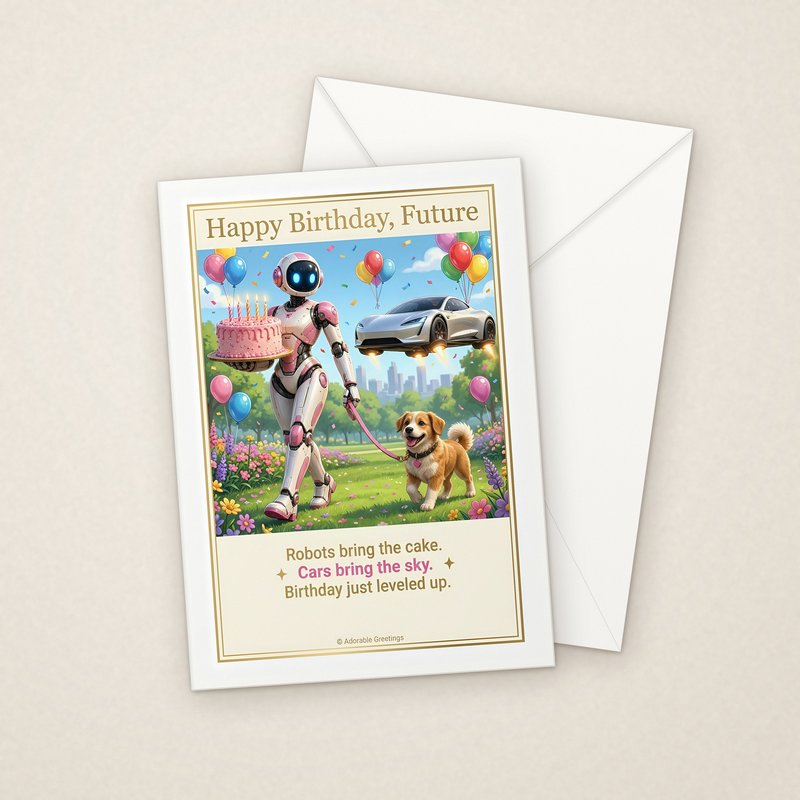
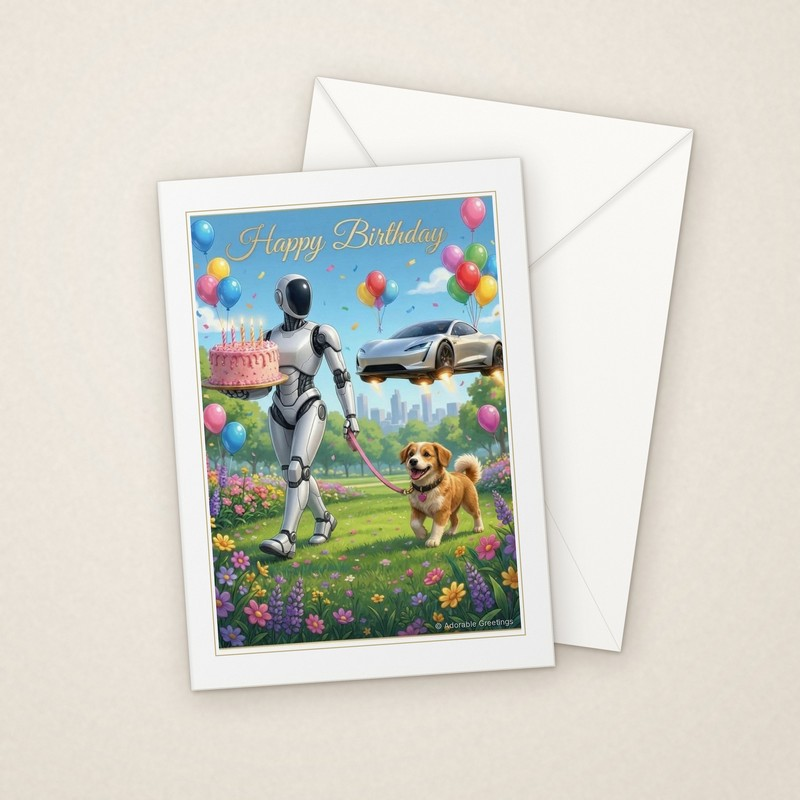
The New Tradition: cleaned greeting fronts (Merry Christmas / Happy Holidays / Season's Greetings / Happy Birthday, © Adorable Greetings) replace RXM-11, 16, 22-28 and NTBD-11 singles and Set-of-28 image; old slogans moved into card description text; new NTBirthday Set-of-11 image; prices and Stripe

Changed region(s): [[0.2188, 0.2188, 0.6562, 0.8438]]

diff --git a/cards/index.html b/cards/index.html
@@ -99,6 +99,7 @@
   .card img{aspect-ratio:1/1; object-fit:cover; width:100%; background:#F3EFE6;}
   .card figcaption{padding:9px 10px 11px; font-family:'Poppins',sans-serif; font-weight:600; font-size:.86rem; text-align:center; line-height:1.3;}
   .card figcaption span{display:block; font-family:'IBM Plex Mono',monospace; font-weight:500; font-size:.64rem; color:var(--slate); margin-top:3px;}
+  .card figcaption .slogan{font-family:'Poppins',sans-serif; font-style:italic; font-weight:400; font-size:.72rem; color:var(--slate); margin-top:4px;}
 
   .cta{background:var(--navy); color:var(--cream); text-align:center; padding:48px 0; margin-top:56px;}
   .cta h2{color:var(--cream);}
@@ -180,19 +181,19 @@
     </div>
     <div class="gallery" style="margin-top:22px;">
       <figure class="card" id="robotxmas-21-upgrade-your-holidays-gift-car"><a href="/images/cards/new/robots-xmas/RobotXmas-21-upgrade-your-holidays-gift-car.jpg" target="_blank" rel="noopener"><img src="/images/cards/new/robots-xmas/RobotXmas-21-upgrade-your-holidays-gift-car.jpg" alt="Upgrade Your Holidays robot Christmas greeting card mockup with envelope: a robot walks the golden retriever while a flying white car carries the presents" width="800" height="800" loading="lazy" decoding="async"></a><figcaption>Upgrade Your Holidays<span>Gift Car Upgrade Your Holidays</span></figcaption></figure>
-      <figure class="card" id="robotxmas-22-done-with-the-old-living-room"><a href="/images/cards/new/robots-xmas/RobotXmas-22-done-with-the-old-living-room.jpg" target="_blank" rel="noopener"><img src="/images/cards/new/robots-xmas/RobotXmas-22-done-with-the-old-living-room.jpg" alt="Done With the Old robot Christmas greeting card mockup with envelope: a robot clears out the old with a corgi as a flying car waits by the Christmas tree" width="800" height="800" loading="lazy" decoding="async"></a><figcaption>Done With the Old<span>Living Room Done With the Old</span></figcaption></figure>
-      <figure class="card" id="robotxmas-23-rocket-ride-flying-car"><a href="/images/cards/new/robots-xmas/RobotXmas-23-rocket-ride-flying-car.jpg" target="_blank" rel="noopener"><img src="/images/cards/new/robots-xmas/RobotXmas-23-rocket-ride-flying-car.jpg" alt="Rocket Ride robot Christmas greeting card mockup with envelope: a flying white car blasts over a holiday village as a robot and a golden retriever wave" width="800" height="800" loading="lazy" decoding="async"></a><figcaption>Rocket Ride<span>Flying Car Rocket Ride</span></figcaption></figure>
-      <figure class="card" id="robotxmas-24-the-moment-split-scene"><a href="/images/cards/new/robots-xmas/RobotXmas-24-the-moment-split-scene.jpg" target="_blank" rel="noopener"><img src="/images/cards/new/robots-xmas/RobotXmas-24-the-moment-split-scene.jpg" alt="The Moment robot Christmas greeting card mockup with envelope: from walking the dog in the snow to flying the car over a Christmas town" width="800" height="800" loading="lazy" decoding="async"></a><figcaption>The Moment<span>Split Scene The Moment</span></figcaption></figure>
-      <figure class="card" id="robotxmas-25-everyday-future-snowy-walk"><a href="/images/cards/new/robots-xmas/RobotXmas-25-everyday-future-snowy-walk.jpg" target="_blank" rel="noopener"><img src="/images/cards/new/robots-xmas/RobotXmas-25-everyday-future-snowy-walk.jpg" alt="Everyday Future robot Christmas greeting card mockup with envelope: a robot in a scarf walks a doodle in a Santa hat down a snowy street" width="800" height="800" loading="lazy" decoding="async"></a><figcaption>Everyday Future<span>Snowy Walk Everyday Future</span></figcaption></figure>
-      <figure class="card" id="robotxmas-26-neighborhood-upgrade-snowy-street"><a href="/images/cards/new/robots-xmas/RobotXmas-26-neighborhood-upgrade-snowy-street.jpg" target="_blank" rel="noopener"><img src="/images/cards/new/robots-xmas/RobotXmas-26-neighborhood-upgrade-snowy-street.jpg" alt="Neighborhood Upgrade robot Christmas greeting card mockup with envelope: a robot walks a terrier past wreathed houses as a flying car arrives" width="800" height="800" loading="lazy" decoding="async"></a><figcaption>Neighborhood Upgrade<span>Snowy Street Neighborhood Upgrade</span></figcaption></figure>
-      <figure class="card" id="robotxmas-27-kickflip-era-holiday-skateboard"><a href="/images/cards/new/robots-xmas/RobotXmas-27-kickflip-era-holiday-skateboard.jpg" target="_blank" rel="noopener"><img src="/images/cards/new/robots-xmas/RobotXmas-27-kickflip-era-holiday-skateboard.jpg" alt="Kickflip Era robot Christmas greeting card mockup with envelope: a light-up skateboard, a flying car and a robot with two pups under holiday fireworks" width="800" height="800" loading="lazy" decoding="async"></a><figcaption>Kickflip Era<span>Holiday Skateboard Kickflip Era</span></figcaption></figure>
-      <figure class="card" id="robotxmas-28-new-normal-robot-chores"><a href="/images/cards/new/robots-xmas/RobotXmas-28-new-normal-robot-chores.jpg" target="_blank" rel="noopener"><img src="/images/cards/new/robots-xmas/RobotXmas-28-new-normal-robot-chores.jpg" alt="New Normal robot Christmas greeting card mockup with envelope: a robot hangs the wreath while a flying car lifts off from a snowy house" width="800" height="800" loading="lazy" decoding="async"></a><figcaption>New Normal<span>Robot Chores New Normal</span></figcaption></figure>
-      <figure class="card" id="robotxmas-11-christmas-2-0-holo-tree"><a href="/images/cards/new/robots-xmas/RobotXmas-11-christmas-2-0-holo-tree.jpg" target="_blank" rel="noopener"><img src="/images/cards/new/robots-xmas/RobotXmas-11-christmas-2-0-holo-tree.jpg" alt="Christmas 2.0 robot Christmas greeting card mockup with envelope: a robot walks the dog while a flying car carries the presents" width="800" height="800" loading="lazy" decoding="async"></a><figcaption>Christmas 2.0<span>Holographic Tree Christmas 2.0</span></figcaption></figure>
+      <figure class="card" id="robotxmas-22-done-with-the-old-living-room"><a href="/images/cards/new/robots-xmas/RobotXmas-22-done-with-the-old-living-room.jpg" target="_blank" rel="noopener"><img src="/images/cards/new/robots-xmas/RobotXmas-22-done-with-the-old-living-room.jpg" alt="Done With the Old robot Christmas greeting card mockup with envelope: a robot clears out the old with a corgi as a flying car waits by the Christmas tree" width="800" height="800" loading="lazy" decoding="async"></a><figcaption>Done With the Old<span>Living Room Done With the Old</span><span class="slogan">Same old cards? Not this year. Robots and flying cars just took over.</span></figcaption></figure>
+      <figure class="card" id="robotxmas-23-rocket-ride-flying-car"><a href="/images/cards/new/robots-xmas/RobotXmas-23-rocket-ride-flying-car.jpg" target="_blank" rel="noopener"><img src="/images/cards/new/robots-xmas/RobotXmas-23-rocket-ride-flying-car.jpg" alt="Rocket Ride robot Christmas greeting card mockup with envelope: a flying white car blasts over a holiday village as a robot and a golden retriever wave" width="800" height="800" loading="lazy" decoding="async"></a><figcaption>Rocket Ride<span>Flying Car Rocket Ride</span><span class="slogan">Flying cars are real. 0-60 in under a second.</span></figcaption></figure>
+      <figure class="card" id="robotxmas-24-the-moment-split-scene"><a href="/images/cards/new/robots-xmas/RobotXmas-24-the-moment-split-scene.jpg" target="_blank" rel="noopener"><img src="/images/cards/new/robots-xmas/RobotXmas-24-the-moment-split-scene.jpg" alt="The Moment robot Christmas greeting card mockup with envelope: from walking the dog in the snow to flying the car over a Christmas town" width="800" height="800" loading="lazy" decoding="async"></a><figcaption>The Moment<span>Split Scene The Moment</span><span class="slogan">From walking the dog to flying the car.</span></figcaption></figure>
+      <figure class="card" id="robotxmas-25-everyday-future-snowy-walk"><a href="/images/cards/new/robots-xmas/RobotXmas-25-everyday-future-snowy-walk.jpg" target="_blank" rel="noopener"><img src="/images/cards/new/robots-xmas/RobotXmas-25-everyday-future-snowy-walk.jpg" alt="Everyday Future robot Christmas greeting card mockup with envelope: a robot in a scarf walks a doodle in a Santa hat down a snowy street" width="800" height="800" loading="lazy" decoding="async"></a><figcaption>Everyday Future<span>Snowy Walk Everyday Future</span><span class="slogan">Robots walk the dog. Cars fly. New normal.</span></figcaption></figure>
+      <figure class="card" id="robotxmas-26-neighborhood-upgrade-snowy-street"><a href="/images/cards/new/robots-xmas/RobotXmas-26-neighborhood-upgrade-snowy-street.jpg" target="_blank" rel="noopener"><img src="/images/cards/new/robots-xmas/RobotXmas-26-neighborhood-upgrade-snowy-street.jpg" alt="Neighborhood Upgrade robot Christmas greeting card mockup with envelope: a robot walks a terrier past wreathed houses as a flying car arrives" width="800" height="800" loading="lazy" decoding="async"></a><figcaption>Neighborhood Upgrade<span>Snowy Street Neighborhood Upgrade</span><span class="slogan">Your next dog walker and your next ride both just arrived.</span></figcaption></figure>
+      <figure class="card" id="robotxmas-27-kickflip-era-holiday-skateboard"><a href="/images/cards/new/robots-xmas/RobotXmas-27-kickflip-era-holiday-skateboard.jpg" target="_blank" rel="noopener"><img src="/images/cards/new/robots-xmas/RobotXmas-27-kickflip-era-holiday-skateboard.jpg" alt="Kickflip Era robot Christmas greeting card mockup with envelope: a light-up skateboard, a flying car and a robot with two pups under holiday fireworks" width="800" height="800" loading="lazy" decoding="async"></a><figcaption>Kickflip Era<span>Holiday Skateboard Kickflip Era</span><span class="slogan">Cars that fly. Thrusters that land. The rules just got rewritten.</span></figcaption></figure>
+      <figure class="card" id="robotxmas-28-new-normal-robot-chores"><a href="/images/cards/new/robots-xmas/RobotXmas-28-new-normal-robot-chores.jpg" target="_blank" rel="noopener"><img src="/images/cards/new/robots-xmas/RobotXmas-28-new-normal-robot-chores.jpg" alt="New Normal robot Christmas greeting card mockup with envelope: a robot hangs the wreath while a flying car lifts off from a snowy house" width="800" height="800" loading="lazy" decoding="async"></a><figcaption>New Normal<span>Robot Chores New Normal</span><span class="slogan">Robots do the chores. Cars leave the ground. Welcome to now.</span></figcaption></figure>
+      <figure class="card" id="robotxmas-11-christmas-2-0-holo-tree"><a href="/images/cards/new/robots-xmas/RobotXmas-11-christmas-2-0-holo-tree.jpg" target="_blank" rel="noopener"><img src="/images/cards/new/robots-xmas/RobotXmas-11-christmas-2-0-holo-tree.jpg" alt="Christmas 2.0 robot Christmas greeting card mockup with envelope: a robot walks the dog while a flying car carries the presents" width="800" height="800" loading="lazy" decoding="async"></a><figcaption>Christmas 2.0<span>Holographic Tree Christmas 2.0</span><span class="slogan">Robots walk the dog. Cars fly the presents. A new kind of Christmas.</span></figcaption></figure>
       <figure class="card" id="robotxmas-12-dog-walker-2-0-snowy-street"><a href="/images/cards/new/robots-xmas/RobotXmas-12-dog-walker-2-0-snowy-street.jpg" target="_blank" rel="noopener"><img src="/images/cards/new/robots-xmas/RobotXmas-12-dog-walker-2-0-snowy-street.jpg" alt="Snowy Street Dog Walker 2.0 robot Christmas greeting card mockup with envelope" width="800" height="800" loading="lazy" decoding="async"></a><figcaption>Dog Walker 2.0<span>Snowy Street Dog Walker 2.0</span></figcaption></figure>
       <figure class="card" id="robotxmas-13-gifts-by-air-drone-pods"><a href="/images/cards/new/robots-xmas/RobotXmas-13-gifts-by-air-drone-pods.jpg" target="_blank" rel="noopener"><img src="/images/cards/new/robots-xmas/RobotXmas-13-gifts-by-air-drone-pods.jpg" alt="Drone Pods Gifts by Air robot Christmas greeting card mockup with envelope" width="800" height="800" loading="lazy" decoding="async"></a><figcaption>Gifts by Air<span>Drone Pods Gifts by Air</span></figcaption></figure>
       <figure class="card" id="robotxmas-14-tree-trimmer-drone-swarm"><a href="/images/cards/new/robots-xmas/RobotXmas-14-tree-trimmer-drone-swarm.jpg" target="_blank" rel="noopener"><img src="/images/cards/new/robots-xmas/RobotXmas-14-tree-trimmer-drone-swarm.jpg" alt="Drone Swarm Tree Trimmer robot Christmas greeting card mockup with envelope" width="800" height="800" loading="lazy" decoding="async"></a><figcaption>Tree Trimmer<span>Drone Swarm Tree Trimmer</span></figcaption></figure>
       <figure class="card" id="robotxmas-15-holiday-crew-glowing-reindeer"><a href="/images/cards/new/robots-xmas/RobotXmas-15-holiday-crew-glowing-reindeer.jpg" target="_blank" rel="noopener"><img src="/images/cards/new/robots-xmas/RobotXmas-15-holiday-crew-glowing-reindeer.jpg" alt="Glowing Reindeer Holiday Crew robot Christmas greeting card mockup with envelope" width="800" height="800" loading="lazy" decoding="async"></a><figcaption>Holiday Crew<span>Glowing Reindeer Holiday Crew</span></figcaption></figure>
-      <figure class="card" id="robotxmas-16-skip-the-papers-wrapping-line"><a href="/images/cards/new/robots-xmas/RobotXmas-16-skip-the-papers-wrapping-line.jpg" target="_blank" rel="noopener"><img src="/images/cards/new/robots-xmas/RobotXmas-16-skip-the-papers-wrapping-line.jpg" alt="Skip the Papers robot Christmas greeting card mockup with envelope: a robot and a golden retriever on a snowy holiday walk" width="800" height="800" loading="lazy" decoding="async"></a><figcaption>Skip the Papers<span>Wrapping Line Skip the Papers</span></figcaption></figure>
+      <figure class="card" id="robotxmas-16-skip-the-papers-wrapping-line"><a href="/images/cards/new/robots-xmas/RobotXmas-16-skip-the-papers-wrapping-line.jpg" target="_blank" rel="noopener"><img src="/images/cards/new/robots-xmas/RobotXmas-16-skip-the-papers-wrapping-line.jpg" alt="Skip the Papers robot Christmas greeting card mockup with envelope: a robot and a golden retriever on a snowy holiday walk" width="800" height="800" loading="lazy" decoding="async"></a><figcaption>Skip the Papers<span>Wrapping Line Skip the Papers</span><span class="slogan">People are tired of the same old cards. This year the robot delivers the moment.</span></figcaption></figure>
       <figure class="card" id="robotxmas-17-the-new-tradition-aurora-skyline"><a href="/images/cards/new/robots-xmas/RobotXmas-17-the-new-tradition-aurora-skyline.jpg" target="_blank" rel="noopener"><img src="/images/cards/new/robots-xmas/RobotXmas-17-the-new-tradition-aurora-skyline.jpg" alt="The New Tradition robot Christmas greeting card mockup with envelope: a robot trims the tree while Santa flies by in a white electric car" width="800" height="800" loading="lazy" decoding="async"></a><figcaption>The New Tradition<span>Aurora Skyline The New Tradition</span></figcaption></figure>
       <figure class="card" id="robotxmas-18-snow-on-demand-weather-drone"><a href="/images/cards/new/robots-xmas/RobotXmas-18-snow-on-demand-weather-drone.jpg" target="_blank" rel="noopener"><img src="/images/cards/new/robots-xmas/RobotXmas-18-snow-on-demand-weather-drone.jpg" alt="Weather Drone Snow on Demand robot Christmas greeting card mockup with envelope" width="800" height="800" loading="lazy" decoding="async"></a><figcaption>Snow on Demand<span>Weather Drone Snow on Demand</span></figcaption></figure>
       <figure class="card" id="robotxmas-19-sleigh-ride-2-0-hover-sleigh"><a href="/images/cards/new/robots-xmas/RobotXmas-19-sleigh-ride-2-0-hover-sleigh.jpg" target="_blank" rel="noopener"><img src="/images/cards/new/robots-xmas/RobotXmas-19-sleigh-ride-2-0-hover-sleigh.jpg" alt="Hover Sleigh Ride 2.0 robot Christmas greeting card mockup with envelope" width="800" height="800" loading="lazy" decoding="async"></a><figcaption>Sleigh Ride 2.0<span>Hover Sleigh Ride 2.0</span></figcaption></figure>
@@ -237,7 +238,7 @@
     <p class="tagline" style="margin:-6px 0 10px; font-style:italic; font-size:1.05rem;">Birthday parties of the future</p>
     <p class="sub">Bright, futuristic trading-card designs: a friendly humanoid home robot and its puppy crew throw the birthday party of tomorrow, with a hologram cake, candles lit by drone, a hoverboard party, a robot DJ, a confetti drone show, a birthday in orbit, a wish machine, a pod full of party puppies and a rooftop party in a sky city. &ldquo;Make a Wish&rdquo;, &ldquo;Drop the Beat&rdquo;, &ldquo;Birthday in Orbit&rdquo;, &ldquo;Party Pod&rdquo;, &ldquo;Party in the Sky&rdquo; and more. Blank inside.</p>
     <div class="feature" id="nt-birthday-set">
-      <a href="/images/cards/new/nt-birthday/NTBirthday-Set-of-10.jpg" target="_blank" rel="noopener"><img src="/images/cards/new/nt-birthday/NTBirthday-Set-of-10.jpg" alt="All 10 The New Tradition robot birthday greeting card designs with envelopes" width="1200" height="1200" loading="lazy" decoding="async" style="width:100%; height:auto; display:block;"></a>
+      <a href="/images/cards/new/nt-birthday/NTBirthday-Set-of-11.jpg" target="_blank" rel="noopener"><img src="/images/cards/new/nt-birthday/NTBirthday-Set-of-11.jpg" alt="All 11 The New Tradition robot birthday greeting card designs with envelopes" width="1200" height="1200" loading="lazy" decoding="async" style="width:100%; height:auto; display:block;"></a>
       <div class="set-body">
         <h3>The New Tradition Birthday Cards - Robots &amp; Pups - Set of 6</h3>
         <p class="meta" style="font-family:'IBM Plex Mono',monospace; font-size:.7rem; color:var(--rose);">$3.20 wholesale / $6.50 suggested retail per card</p>
@@ -245,7 +246,7 @@
       </div>
     </div>
     <div class="gallery" style="margin-top:22px;">
-      <figure class="card" id="ntbirthday-11-happy-birthday-future-park-party"><a href="/images/cards/new/nt-birthday/NTBirthday-11-happy-birthday-future-park-party.jpg" target="_blank" rel="noopener"><img src="/images/cards/new/nt-birthday/NTBirthday-11-happy-birthday-future-park-party.jpg" alt="Happy Birthday Future robot birthday greeting card mockup with envelope: a robot brings the cake and a golden retriever as a flying car crosses a party in the park" width="800" height="800" loading="lazy" decoding="async"></a><figcaption>Happy Birthday Future<span>Park Party Happy Birthday Future</span></figcaption></figure>
+      <figure class="card" id="ntbirthday-11-happy-birthday-future-park-party"><a href="/images/cards/new/nt-birthday/NTBirthday-11-happy-birthday-future-park-party.jpg" target="_blank" rel="noopener"><img src="/images/cards/new/nt-birthday/NTBirthday-11-happy-birthday-future-park-party.jpg" alt="Happy Birthday Future robot birthday greeting card mockup with envelope: a robot brings the cake and a golden retriever as a flying car crosses a party in the park" width="800" height="800" loading="lazy" decoding="async"></a><figcaption>Happy Birthday Future<span>Park Party Happy Birthday Future</span><span class="slogan">Robots bring the cake. Cars bring the sky. Birthday just leveled up.</span></figcaption></figure>
       <figure class="card" id="ntbirthday-01-make-a-wish-hologram-cake"><a href="/images/cards/new/nt-birthday/NTBirthday-01-make-a-wish-hologram-cake.jpg" target="_blank" rel="noopener"><img src="/images/cards/new/nt-birthday/NTBirthday-01-make-a-wish-hologram-cake.jpg" alt="Hologram Cake Make a Wish robot birthday greeting card mockup with envelope" width="800" height="800" loading="lazy" decoding="async"></a><figcaption>Make a Wish<span>Hologram Cake Make a Wish</span></figcaption></figure>
       <figure class="card" id="ntbirthday-02-light-it-up-drone-candles"><a href="/images/cards/new/nt-birthday/NTBirthday-02-light-it-up-drone-candles.jpg" target="_blank" rel="noopener"><img src="/images/cards/new/nt-birthday/NTBirthday-02-light-it-up-drone-candles.jpg" alt="Drone Candles Light It Up! robot birthday greeting card mockup with envelope" width="800" height="800" loading="lazy" decoding="async"></a><figcaption>Light It Up!<span>Drone Candles Light It Up!</span></figcaption></figure>
       <figure class="card" id="ntbirthday-03-hover-party-hoverboards"><a href="/images/cards/new/nt-birthday/NTBirthday-03-hover-party-hoverboards.jpg" target="_blank" rel="noopener"><img src="/images/cards/new/nt-birthday/NTBirthday-03-hover-party-hoverboards.jpg" alt="Hoverboards Hover Party robot birthday greeting card mockup with envelope" width="800" height="800" loading="lazy" decoding="async"></a><figcaption>Hover Party<span>Hoverboards Hover Party</span></figcaption></figure>

diff --git a/the-new-tradition/index.html b/the-new-tradition/index.html
@@ -96,6 +96,7 @@
   .card img{aspect-ratio:1/1; object-fit:cover; width:100%; background:#F3EFE6;}
   .card figcaption{padding:9px 10px 11px; font-family:'Poppins',sans-serif; font-weight:600; font-size:.86rem; text-align:center; line-height:1.3;}
   .card figcaption span{display:block; font-family:'IBM Plex Mono',monospace; font-weight:500; font-size:.64rem; color:var(--slate); margin-top:3px;}
+  .card figcaption .slogan{font-family:'Poppins',sans-serif; font-style:italic; font-weight:400; font-size:.72rem; color:var(--slate); margin-top:4px;}
 
   .cta{background:var(--navy); color:var(--cream); text-align:center; padding:48px 0; margin-top:56px;}
   .cta h2{color:var(--cream);}
@@ -179,13 +180,13 @@
     </div>
     <div class="gallery">
       <figure class="card"><a href="/images/cards/new/robots-xmas/RobotXmas-21-upgrade-your-holidays-gift-car.jpg" target="_blank" rel="noopener"><img src="/images/cards/new/robots-xmas/RobotXmas-21-upgrade-your-holidays-gift-car.jpg" alt="Upgrade Your Holidays robot Christmas greeting card mockup with envelope: a robot walks the golden retriever while a flying white car carries the presents" width="800" height="800" loading="lazy" decoding="async"></a><figcaption>Upgrade Your Holidays</figcaption></figure>
-      <figure class="card"><a href="/images/cards/new/robots-xmas/RobotXmas-22-done-with-the-old-living-room.jpg" target="_blank" rel="noopener"><img src="/images/cards/new/robots-xmas/RobotXmas-22-done-with-the-old-living-room.jpg" alt="Done With the Old robot Christmas greeting card mockup with envelope: a robot clears out the old with a corgi as a flying car waits by the Christmas tree" width="800" height="800" loading="lazy" decoding="async"></a><figcaption>Done With the Old</figcaption></figure>
-      <figure class="card"><a href="/images/cards/new/robots-xmas/RobotXmas-23-rocket-ride-flying-car.jpg" target="_blank" rel="noopener"><img src="/images/cards/new/robots-xmas/RobotXmas-23-rocket-ride-flying-car.jpg" alt="Rocket Ride robot Christmas greeting card mockup with envelope: a flying white car blasts over a holiday village as a robot and a golden retriever wave" width="800" height="800" loading="lazy" decoding="async"></a><figcaption>Rocket Ride</figcaption></figure>
-      <figure class="card"><a href="/images/cards/new/robots-xmas/RobotXmas-24-the-moment-split-scene.jpg" target="_blank" rel="noopener"><img src="/images/cards/new/robots-xmas/RobotXmas-24-the-moment-split-scene.jpg" alt="The Moment robot Christmas greeting card mockup with envelope: from walking the dog in the snow to flying the car over a Christmas town" width="800" height="800" loading="lazy" decoding="async"></a><figcaption>The Moment</figcaption></figure>
-      <figure class="card"><a href="/images/cards/new/robots-xmas/RobotXmas-25-everyday-future-snowy-walk.jpg" target="_blank" rel="noopener"><img src="/images/cards/new/robots-xmas/RobotXmas-25-everyday-future-snowy-walk.jpg" alt="Everyday Future robot Christmas greeting card mockup with envelope: a robot in a scarf walks a doodle in a Santa hat down a snowy street" width="800" height="800" loading="lazy" decoding="async"></a><figcaption>Everyday Future</figcaption></figure>
-      <figure class="card"><a href="/images/cards/new/robots-xmas/RobotXmas-26-neighborhood-upgrade-snowy-street.jpg" target="_blank" rel="noopener"><img src="/images/cards/new/robots-xmas/RobotXmas-26-neighborhood-upgrade-snowy-street.jpg" alt="Neighborhood Upgrade robot Christmas greeting card mockup with envelope: a robot walks a terrier past wreathed houses as a flying car arrives" width="800" height="800" loading="lazy" decoding="async"></a><figcaption>Neighborhood Upgrade</figcaption></figure>
-      <figure class="card"><a href="/images/cards/new/robots-xmas/RobotXmas-27-kickflip-era-holiday-skateboard.jpg" target="_blank" rel="noopener"><img src="/images/cards/new/robots-xmas/RobotXmas-27-kickflip-era-holiday-skateboard.jpg" alt="Kickflip Era robot Christmas greeting card mockup with envelope: a light-up skateboard, a flying car and a robot with two pups under holiday fireworks" width="800" height="800" loading="lazy" decoding="async"></a><figcaption>Kickflip Era</figcaption></figure>
-      <figure class="card"><a href="/images/cards/new/robots-xmas/RobotXmas-28-new-normal-robot-chores.jpg" target="_blank" rel="noopener"><img src="/images/cards/new/robots-xmas/RobotXmas-28-new-normal-robot-chores.jpg" alt="New Normal robot Christmas greeting card mockup with envelope: a robot hangs the wreath while a flying car lifts off from a snowy house" width="800" height="800" loading="lazy" decoding="async"></a><figcaption>New Normal</figcaption></figure>
+      <figure class="card"><a href="/images/cards/new/robots-xmas/RobotXmas-22-done-with-the-old-living-room.jpg" target="_blank" rel="noopener"><img src="/images/cards/new/robots-xmas/RobotXmas-22-done-with-the-old-living-room.jpg" alt="Done With the Old robot Christmas greeting card mockup with envelope: a robot clears out the old with a corgi as a flying car waits by the Christmas tree" width="800" height="800" loading="lazy" decoding="async"></a><figcaption>Done With the Old<span class="slogan">Same old cards? Not this year. Robots and flying cars just took over.</span></figcaption></figure>
+      <figure class="card"><a href="/images/cards/new/robots-xmas/RobotXmas-23-rocket-ride-flying-car.jpg" target="_blank" rel="noopener"><img src="/images/cards/new/robots-xmas/RobotXmas-23-rocket-ride-flying-car.jpg" alt="Rocket Ride robot Christmas greeting card mockup with envelope: a flying white car blasts over a holiday village as a robot and a golden retriever wave" width="800" height="800" loading="lazy" decoding="async"></a><figcaption>Rocket Ride<span class="slogan">Flying cars are real. 0-60 in under a second.</span></figcaption></figure>
+      <figure class="card"><a href="/images/cards/new/robots-xmas/RobotXmas-24-the-moment-split-scene.jpg" target="_blank" rel="noopener"><img src="/images/cards/new/robots-xmas/RobotXmas-24-the-moment-split-scene.jpg" alt="The Moment robot Christmas greeting card mockup with envelope: from walking the dog in the snow to flying the car over a Christmas town" width="800" height="800" loading="lazy" decoding="async"></a><figcaption>The Moment<span class="slogan">From walking the dog to flying the car.</span></figcaption></figure>
+      <figure class="card"><a href="/images/cards/new/robots-xmas/RobotXmas-25-everyday-future-snowy-walk.jpg" target="_blank" rel="noopener"><img src="/images/cards/new/robots-xmas/RobotXmas-25-everyday-future-snowy-walk.jpg" alt="Everyday Future robot Christmas greeting card mockup with envelope: a robot in a scarf walks a doodle in a Santa hat down a snowy street" width="800" height="800" loading="lazy" decoding="async"></a><figcaption>Everyday Future<span class="slogan">Robots walk the dog. Cars fly. New normal.</span></figcaption></figure>
+      <figure class="card"><a href="/images/cards/new/robots-xmas/RobotXmas-26-neighborhood-upgrade-snowy-street.jpg" target="_blank" rel="noopener"><img src="/images/cards/new/robots-xmas/RobotXmas-26-neighborhood-upgrade-snowy-street.jpg" alt="Neighborhood Upgrade robot Christmas greeting card mockup with envelope: a robot walks a terrier past wreathed houses as a flying car arrives" width="800" height="800" loading="lazy" decoding="async"></a><figcaption>Neighborhood Upgrade<span class="slogan">Your next dog walker and your next ride both just arrived.</span></figcaption></figure>
+      <figure class="card"><a href="/images/cards/new/robots-xmas/RobotXmas-27-kickflip-era-holiday-skateboard.jpg" target="_blank" rel="noopener"><img src="/images/cards/new/robots-xmas/RobotXmas-27-kickflip-era-holiday-skateboard.jpg" alt="Kickflip Era robot Christmas greeting card mockup with envelope: a light-up skateboard, a flying car and a robot with two pups under holiday fireworks" width="800" height="800" loading="lazy" decoding="async"></a><figcaption>Kickflip Era<span class="slogan">Cars that fly. Thrusters that land. The rules just got rewritten.</span></figcaption></figure>
+      <figure class="card"><a href="/images/cards/new/robots-xmas/RobotXmas-28-new-normal-robot-chores.jpg" target="_blank" rel="noopener"><img src="/images/cards/new/robots-xmas/RobotXmas-28-new-normal-robot-chores.jpg" alt="New Normal robot Christmas greeting card mockup with envelope: a robot hangs the wreath while a flying car lifts off from a snowy house" width="800" height="800" loading="lazy" decoding="async"></a><figcaption>New Normal<span class="slogan">Robots do the chores. Cars leave the ground. Welcome to now.</span></figcaption></figure>
       <figure class="card"><a href="/images/cards/new/robots-xmas/RobotXmas-01-merry-christmas-beagle-walk.jpg" target="_blank" rel="noopener"><img src="/images/cards/new/robots-xmas/RobotXmas-01-merry-christmas-beagle-walk.jpg" alt="Beagle Snow Walk Merry Christmas robot Christmas greeting card mockup with envelope" width="800" height="800" loading="lazy" decoding="async"></a><figcaption>Merry Christmas</figcaption></figure>
       <figure class="card"><a href="/images/cards/new/robots-xmas/RobotXmas-02-happy-holidays-tree-trimming.jpg" target="_blank" rel="noopener"><img src="/images/cards/new/robots-xmas/RobotXmas-02-happy-holidays-tree-trimming.jpg" alt="Tree Trimming Happy Holidays robot Christmas greeting card mockup with envelope" width="800" height="800" loading="lazy" decoding="async"></a><figcaption>Happy Holidays</figcaption></figure>
       <figure class="card"><a href="/images/cards/new/robots-xmas/RobotXmas-03-seasons-greetings-presents.jpg" target="_blank" rel="noopener"><img src="/images/cards/new/robots-xmas/RobotXmas-03-seasons-greetings-presents.jpg" alt="Presents Season&#x27;s Greetings robot Christmas greeting card mockup with envelope" width="800" height="800" loading="lazy" decoding="async"></a><figcaption>Season&#x27;s Greetings</figcaption></figure>
@@ -196,12 +197,12 @@
       <figure class="card"><a href="/images/cards/new/robots-xmas/RobotXmas-08-home-for-the-holidays-wagon.jpg" target="_blank" rel="noopener"><img src="/images/cards/new/robots-xmas/RobotXmas-08-home-for-the-holidays-wagon.jpg" alt="Wagon Ride Home for the Holidays robot Christmas greeting card mockup with envelope" width="800" height="800" loading="lazy" decoding="async"></a><figcaption>Home for the Holidays</figcaption></figure>
       <figure class="card"><a href="/images/cards/new/robots-xmas/RobotXmas-09-happy-new-year-under-the-tree.jpg" target="_blank" rel="noopener"><img src="/images/cards/new/robots-xmas/RobotXmas-09-happy-new-year-under-the-tree.jpg" alt="Under the Tree Happy New Year robot Christmas greeting card mockup with envelope" width="800" height="800" loading="lazy" decoding="async"></a><figcaption>Happy New Year</figcaption></figure>
       <figure class="card"><a href="/images/cards/new/robots-xmas/RobotXmas-10-making-spirits-bright-porch-lights.jpg" target="_blank" rel="noopener"><img src="/images/cards/new/robots-xmas/RobotXmas-10-making-spirits-bright-porch-lights.jpg" alt="Porch Lights Making Spirits Bright robot Christmas greeting card mockup with envelope" width="800" height="800" loading="lazy" decoding="async"></a><figcaption>Making Spirits Bright</figcaption></figure>
-      <figure class="card"><a href="/images/cards/new/robots-xmas/RobotXmas-11-christmas-2-0-holo-tree.jpg" target="_blank" rel="noopener"><img src="/images/cards/new/robots-xmas/RobotXmas-11-christmas-2-0-holo-tree.jpg" alt="Christmas 2.0 robot Christmas greeting card mockup with envelope: a robot walks the dog while a flying car carries the presents" width="800" height="800" loading="lazy" decoding="async"></a><figcaption>Christmas 2.0</figcaption></figure>
+      <figure class="card"><a href="/images/cards/new/robots-xmas/RobotXmas-11-christmas-2-0-holo-tree.jpg" target="_blank" rel="noopener"><img src="/images/cards/new/robots-xmas/RobotXmas-11-christmas-2-0-holo-tree.jpg" alt="Christmas 2.0 robot Christmas greeting card mockup with envelope: a robot walks the dog while a flying car carries the presents" width="800" height="800" loading="lazy" decoding="async"></a><figcaption>Christmas 2.0<span class="slogan">Robots walk the dog. Cars fly the presents. A new kind of Christmas.</span></figcaption></figure>
       <figure class="card"><a href="/images/cards/new/robots-xmas/RobotXmas-12-dog-walker-2-0-snowy-street.jpg" target="_blank" rel="noopener"><img src="/images/cards/new/robots-xmas/RobotXmas-12-dog-walker-2-0-snowy-street.jpg" alt="Snowy Street Dog Walker 2.0 robot Christmas greeting card mockup with envelope" width="800" height="800" loading="lazy" decoding="async"></a><figcaption>Dog Walker 2.0</figcaption></figure>
       <figure class="card"><a href="/images/cards/new/robots-xmas/RobotXmas-13-gifts-by-air-drone-pods.jpg" target="_blank" rel="noopener"><img src="/images/cards/new/robots-xmas/RobotXmas-13-gifts-by-air-drone-pods.jpg" alt="Drone Pods Gifts by Air robot Christmas greeting card mockup with envelope" width="800" height="800" loading="lazy" decoding="async"></a><figcaption>Gifts by Air</figcaption></figure>
       <figure class="card"><a href="/images/cards/new/robots-xmas/RobotXmas-14-tree-trimmer-drone-swarm.jpg" target="_blank" rel="noopener"><img src="/images/cards/new/robots-xmas/RobotXmas-14-tree-trimmer-drone-swarm.jpg" alt="Drone Swarm Tree Trimmer robot Christmas greeting card mockup with envelope" width="800" height="800" loading="lazy" decoding="async"></a><figcaption>Tree Trimmer</figcaption></figure>
       <figure class="card"><a href="/images/cards/new/robots-xmas/RobotXmas-15-holiday-crew-glowing-reindeer.jpg" target="_blank" rel="noopener"><img src="/images/cards/new/robots-xmas/RobotXmas-15-holiday-crew-glowing-reindeer.jpg" alt="Glowing Reindeer Holiday Crew robot Christmas greeting card mockup with envelope" width="800" height="800" loading="lazy" decoding="async"></a><figcaption>Holiday Crew</figcaption></figure>
-      <figure class="card"><a href="/images/cards/new/robots-xmas/RobotXmas-16-skip-the-papers-wrapping-line.jpg" target="_blank" rel="noopener"><img src="/images/cards/new/robots-xmas/RobotXmas-16-skip-the-papers-wrapping-line.jpg" alt="Skip the Papers robot Christmas greeting card mockup with envelope: a robot and a golden retriever on a snowy holiday walk" width="800" height="800" loading="lazy" decoding="async"></a><figcaption>Skip the Papers</figcaption></figure>
+      <figure class="card"><a href="/images/cards/new/robots-xmas/RobotXmas-16-skip-the-papers-wrapping-line.jpg" target="_blank" rel="noopener"><img src="/images/cards/new/robots-xmas/RobotXmas-16-skip-the-papers-wrapping-line.jpg" alt="Skip the Papers robot Christmas greeting card mockup with envelope: a robot and a golden retriever on a snowy holiday walk" width="800" height="800" loading="lazy" decoding="async"></a><figcaption>Skip the Papers<span class="slogan">People are tired of the same old cards. This year the robot delivers the moment.</span></figcaption></figure>
       <figure class="card"><a href="/images/cards/new/robots-xmas/RobotXmas-17-the-new-tradition-aurora-skyline.jpg" target="_blank" rel="noopener"><img src="/images/cards/new/robots-xmas/RobotXmas-17-the-new-tradition-aurora-skyline.jpg" alt="The New Tradition robot Christmas greeting card mockup with envelope: a robot trims the tree while Santa flies by in a white electric car" width="800" height="800" loading="lazy" decoding="async"></a><figcaption>The New Tradition</figcaption></figure>
       <figure class="card"><a href="/images/cards/new/robots-xmas/RobotXmas-18-snow-on-demand-weather-drone.jpg" target="_blank" rel="noopener"><img src="/images/cards/new/robots-xmas/RobotXmas-18-snow-on-demand-weather-drone.jpg" alt="Weather Drone Snow on Demand robot Christmas greeting card mockup with envelope" width="800" height="800" loading="lazy" decoding="async"></a><figcaption>Snow on Demand</figcaption></figure>
       <figure class="card"><a href="/images/cards/new/robots-xmas/RobotXmas-19-sleigh-ride-2-0-hover-sleigh.jpg" target="_blank" rel="noopener"><img src="/images/cards/new/robots-xmas/RobotXmas-19-sleigh-ride-2-0-hover-sleigh.jpg" alt="Hover Sleigh Ride 2.0 robot Christmas greeting card mockup with envelope" width="800" height="800" loading="lazy" decoding="async"></a><figcaption>Sleigh Ride 2.0</figcaption></figure>
@@ -264,7 +265,7 @@
 <section class="block" id="birthday">
   <div class="wrap">
     <div class="feature">
-      <a href="/images/cards/new/nt-birthday/NTBirthday-Set-of-10.jpg" target="_blank" rel="noopener"><img src="/images/cards/new/nt-birthday/NTBirthday-Set-of-10.jpg" alt="The New Tradition Birthday greeting card designs" width="1200" height="1200" loading="lazy" decoding="async"></a>
+      <a href="/images/cards/new/nt-birthday/NTBirthday-Set-of-11.jpg" target="_blank" rel="noopener"><img src="/images/cards/new/nt-birthday/NTBirthday-Set-of-11.jpg" alt="The New Tradition Birthday greeting card designs" width="1200" height="1200" loading="lazy" decoding="async"></a>
       <div class="set-body">
         <p class="eyebrow">The New Tradition</p>
         <h2>Birthday</h2>
@@ -274,7 +275,7 @@
       </div>
     </div>
     <div class="gallery">
-      <figure class="card"><a href="/images/cards/new/nt-birthday/NTBirthday-11-happy-birthday-future-park-party.jpg" target="_blank" rel="noopener"><img src="/images/cards/new/nt-birthday/NTBirthday-11-happy-birthday-future-park-party.jpg" alt="Happy Birthday Future robot birthday greeting card mockup with envelope: a robot brings the cake and a golden retriever as a flying car crosses a party in the park" width="800" height="800" loading="lazy" decoding="async"></a><figcaption>Happy Birthday Future</figcaption></figure>
+      <figure class="card"><a href="/images/cards/new/nt-birthday/NTBirthday-11-happy-birthday-future-park-party.jpg" target="_blank" rel="noopener"><img src="/images/cards/new/nt-birthday/NTBirthday-11-happy-birthday-future-park-party.jpg" alt="Happy Birthday Future robot birthday greeting card mockup with envelope: a robot brings the cake and a golden retriever as a flying car crosses a party in the park" width="800" height="800" loading="lazy" decoding="async"></a><figcaption>Happy Birthday Future<span class="slogan">Robots bring the cake. Cars bring the sky. Birthday just leveled up.</span></figcaption></figure>
       <figure class="card"><a href="/images/cards/new/nt-birthday/NTBirthday-01-make-a-wish-hologram-cake.jpg" target="_blank" rel="noopener"><img src="/images/cards/new/nt-birthday/NTBirthday-01-make-a-wish-hologram-cake.jpg" alt="Hologram Cake Make a Wish robot birthday greeting card mockup with envelope" width="800" height="800" loading="lazy" decoding="async"></a><figcaption>Make a Wish</figcaption></figure>
       <figure class="card"><a href="/images/cards/new/nt-birthday/NTBirthday-02-light-it-up-drone-candles.jpg" target="_blank" rel="noopener"><img src="/images/cards/new/nt-birthday/NTBirthday-02-light-it-up-drone-candles.jpg" alt="Drone Candles Light It Up! robot birthday greeting card mockup with envelope" width="800" height="800" loading="lazy" decoding="async"></a><figcaption>Light It Up!</figcaption></figure>
       <figure class="card"><a href="/images/cards/new/nt-birthday/NTBirthday-03-hover-party-hoverboards.jpg" target="_blank" rel="noopener"><img src="/images/cards/new/nt-birthday/NTBirthday-03-hover-party-hoverboards.jpg" alt="Hoverboards Hover Party robot birthday greeting card mockup with envelope" width="800" height="800" loading="lazy" decoding="async"></a><figcaption>Hover Party</figcaption></figure>

diff --git a/greeting-cards.html b/greeting-cards.html
@@ -97,6 +97,7 @@
   .buy-btn.ghost{background:transparent; color:var(--cream); border:2px solid var(--cream);}
   .card-img.sq{aspect-ratio:1/1; padding:0; background:#fff;}
   .card-img.sq img{width:100%; height:100%; object-fit:cover; box-shadow:none;}
+  .card-body .slogan{font-size:.78rem; font-style:italic; color:var(--slate); margin:0; line-height:1.35;}
   .card-body .code{font-family:'IBM Plex Mono',monospace; font-size:.7rem; color:var(--slate); margin:0; letter-spacing:.06em;}
   .group-desc{color:var(--slate); margin:-8px 0 16px; line-height:1.5; max-width:70ch; font-size:.92rem;}
   .designs.es{background:#F6EFE0;}
@@ -157,6 +158,7 @@
         <div class="card-body">
           <p class="code">RXM-22</p>
           <h3>Done With the Old</h3>
+          <p class="slogan">Same old cards? Not this year. Robots and flying cars just took over.</p>
           <a class="buy-btn gold" href="https://buy.stripe.com/9B614n98y6u770bepK8sp2a?client_reference_id=RXM-22" target="_blank" rel="noopener">Set of 6 &mdash; $39</a>
           <a class="buy-btn" href="https://buy.stripe.com/28E3cv3OeaKn2JV3L68sp29?client_reference_id=RXM-22" target="_blank" rel="noopener">Single card &mdash; $8</a>
         </div>
@@ -166,6 +168,7 @@
         <div class="card-body">
           <p class="code">RXM-23</p>
           <h3>Rocket Ride</h3>
+          <p class="slogan">Flying cars are real. 0-60 in under a second.</p>
           <a class="buy-btn gold" href="https://buy.stripe.com/dRmeVd84ucSv70bgxS8sp2c?client_reference_id=RXM-23" target="_blank" rel="noopener">Set of 6 &mdash; $39</a>
           <a class="buy-btn" href="https://buy.stripe.com/4gM6oH5Wmf0Dacn81m8sp2b?client_reference_id=RXM-23" target="_blank" rel="noopener">Single card &mdash; $8</a>
         </div>
@@ -175,6 +178,7 @@
         <div class="card-body">
           <p class="code">RXM-24</p>
           <h3>The Moment</h3>
+          <p class="slogan">From walking the dog to flying the car.</p>
           <a class="buy-btn gold" href="https://buy.stripe.com/8x2aEX0C23hVfwHepK8sp2e?client_reference_id=RXM-24" target="_blank" rel="noopener">Set of 6 &mdash; $39</a>
           <a class="buy-btn" href="https://buy.stripe.com/3cI4gzdoOaKnckv2H28sp2d?client_reference_id=RXM-24" target="_blank" rel="noopener">Single card &mdash; $8</a>
         </div>
@@ -184,6 +188,7 @@
         <div class="card-body">
           <p class="code">RXM-25</p>
           <h3>Everyday Future</h3>
+          <p class="slogan">Robots walk the dog. Cars fly. New normal.</p>
           <a class="buy-btn gold" href="https://buy.stripe.com/dRm7sL70qdWzesDa9u8sp2g?client_reference_id=RXM-25" target="_blank" rel="noopener">Set of 6 &mdash; $39</a>
           <a class="buy-btn" href="https://buy.stripe.com/dRm3cvckK5q30BNepK8sp2f?client_reference_id=RXM-25" target="_blank" rel="noopener">Single card &mdash; $8</a>
         </div>
@@ -193,6 +198,7 @@
         <div class="card-body">
           <p class="code">RXM-26</p>
           <h3>Neighborhood Upgrade</h3>
+          <p class="slogan">Your next dog walker and your next ride both just arrived.</p>
           <a class="buy-btn gold" href="https://buy.stripe.com/00waEX3Oe6u770bchC8sp2i?client_reference_id=RXM-26" target="_blank" rel="noopener">Set of 6 &mdash; $39</a>
           <a class="buy-btn" href="https://buy.stripe.com/00w6oHckKdWz0BNdlG8sp2h?client_reference_id=RXM-26" target="_blank" rel="noopener">Single card &mdash; $8</a>
         </div>
@@ -202,6 +208,7 @@
         <div class="card-body">
           <p class="code">RXM-27</p>
           <h3>Kickflip Era</h3>
+          <p class="slogan">Cars that fly. Thrusters that land. The rules just got rewritten.</p>
           <a class="buy-btn gold" href="https://buy.stripe.com/aFa4gz2Ka9Gjbgr0yU8sp2k?client_reference_id=RXM-27" target="_blank" rel="noopener">Set of 6 &mdash; $39</a>
           <a class="buy-btn" href="https://buy.stripe.com/3cI3cv0C29Gj1FR95q8sp2j?client_reference_id=RXM-27" target="_blank" rel="noopener">Single card &mdash; $8</a>
         </div>
@@ -211,6 +218,7 @@
         <div class="card-body">
           <p class="code">RXM-28</p>
           <h3>New Normal</h3>
+          <p class="slogan">Robots do the chores. Cars leave the ground. Welcome to now.</p>
           <a class="buy-btn gold" href="https://buy.stripe.com/14AcN50C23hV2JVepK8sp2m?client_reference_id=RXM-28" target="_blank" rel="noopener">Set of 6 &mdash; $39</a>
           <a class="buy-btn" href="https://buy.stripe.com/14AcN570qcSv0BN4Pa8sp2l?client_reference_id=RXM-28" target="_blank" rel="noopener">Single card &mdash; $8</a>
         </div>
@@ -310,6 +318,7 @@
         <div class="card-body">
           <p class="code">RXM-11</p>
           <h3>Christmas 2.0</h3>
+          <p class="slogan">Robots walk the dog. Cars fly the presents. A new kind of Christmas.</p>
           <a class="buy-btn gold" href="https://buy.stripe.com/28EaEXgB07ybckvftO8so24?client_reference_id=RXM-11" target="_blank" rel="noopener">Set of 6 &mdash; $39</a>
           <a class="buy-btn" href="https://buy.stripe.com/7sY4gzgB08Cf4S34Pa8so23?client_reference_id=RXM-11" target="_blank" rel="noopener">Single card &mdash; $8</a>
         </div>
@@ -355,6 +364,7 @@
         <div class="card-body">
           <p class="code">RXM-16</p>
           <h3>Skip the Papers</h3>
+          <p class="slogan">People are tired of the same old cards. This year the robot delivers the moment.</p>
           <a class="buy-btn gold" href="https://buy.stripe.com/fZu00jesS5q3ckvbdy8so2e?client_reference_id=RXM-16" target="_blank" rel="noopener">Set of 6 &mdash; $39</a>
           <a class="buy-btn" href="https://buy.stripe.com/8x23cv4Si8Cf2JV0yU8so2d?client_reference_id=RXM-16" target="_blank" rel="noopener">Single card &mdash; $8</a>
         </div>
@@ -592,6 +602,7 @@
         <div class="card-body">
           <p class="code">NTBD-11</p>
           <h3>Happy Birthday Future</h3>
+          <p class="slogan">Robots bring the cake. Cars bring the sky. Birthday just leveled up.</p>
           <a class="buy-btn gold" href="https://buy.stripe.com/14A3cvckK19NesD5Te8sp2o?client_reference_id=NTBD-11" target="_blank" rel="noopener">Set of 6 &mdash; $39</a>
           <a class="buy-btn" href="https://buy.stripe.com/3cIfZh84u2dR3NZ0yU8sp2n?client_reference_id=NTBD-11" target="_blank" rel="noopener">Single card &mdash; $8</a>
         </div>
